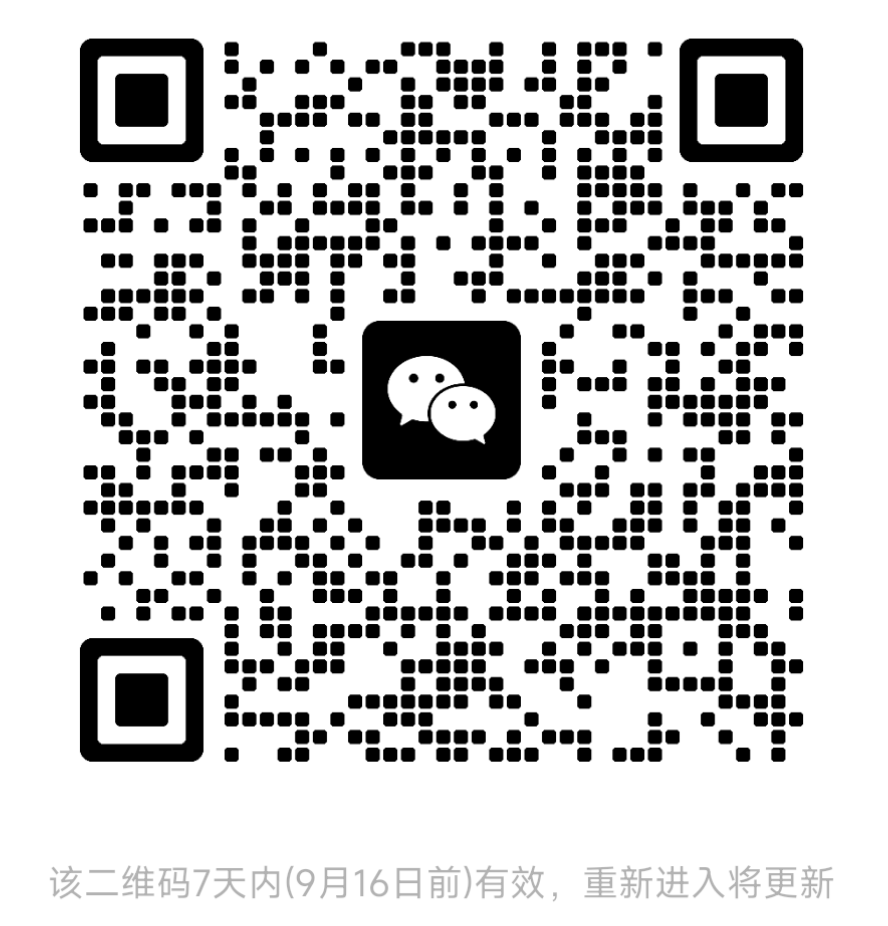
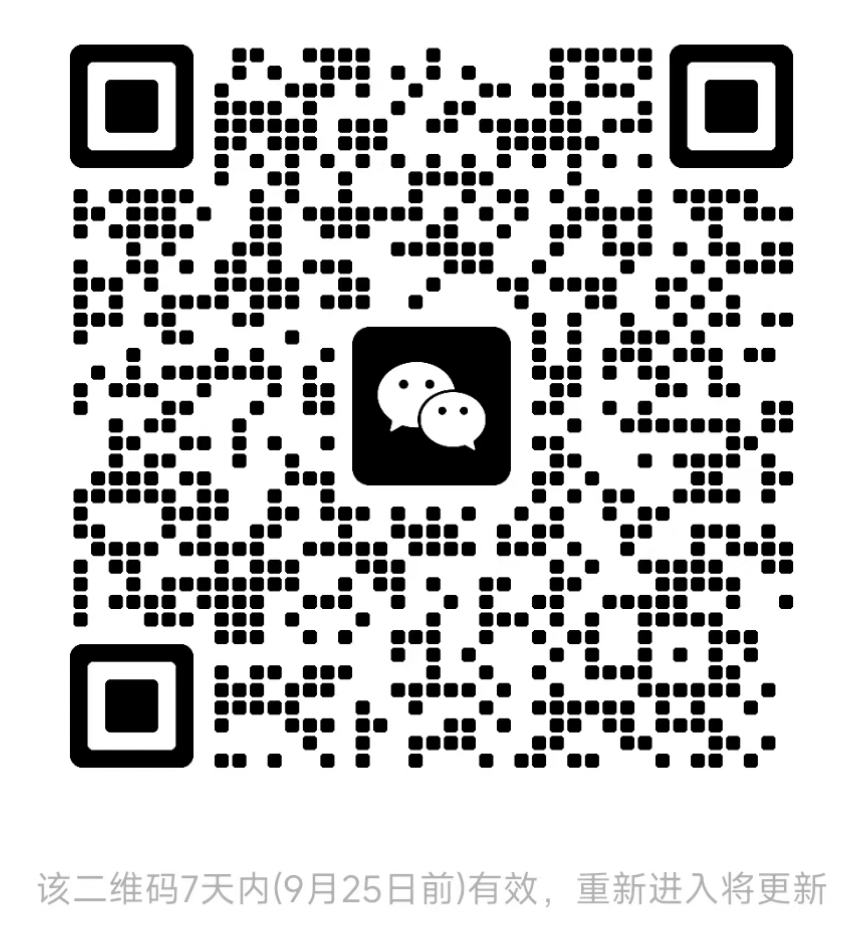
-

diff --git a/README.md b/README.md
@@ -7,32 +7,17 @@
 
 # Fine
 
+由于工具的维护与更新需要花费大量时间与精力，现采取订阅制度，<b>部分功能收费【ICP批量查询、爱企查导出、小程序敏感信息提取】，其余功能不受限</b>，后续新加的功能可能也会收费，具体费用进群了解
+
+<img src="README_images/qrcode.png" alt="alt text" height="200" />
+
+# 功能模块
+
+> macOS提示文件损坏请执行`sudo xattr -d com.apple.quarantine Fine.app`命令后重新打开
+
 ![1](README_images/setting.png)
 ![2](README_images/fofa.png)
 ![3](README_images/icp.png)
 ![4](README_images/aiqicha.png)
 ![5](README_images/portscan.png)
 ![6](README_images/miniapp.png)
-
-# 使用说明
-- macOS提示文件损坏请执行`sudo xattr -d com.apple.quarantine Fine.app`命令后重新打开
-- 超时均采用纳秒
-- 资产测绘API KEY自行在对应平台获取
-- 天眼查AUTH-TOKEN为登陆后Cookie中的`auth_token`字段内容
-- 爱企查Cookie需要Burp/Yakit等抓包获取
-- ICP批量查询务必使用代理池，因代理问题批量任务终止可点击`继续`进行查询不用重新执行开始
-- HTTPX不会使用全局代理，只会使用设置的代理
-- 端口扫描依托于域名解析的IP，如果识别不到请更换DNS，线程根据本机资源设置，QPS根据目标资源大致设置
-- 微信小程序Applet目录
-    -    windows v3: 设置->文件管理->微信文件的默认保存位置，打开文件管理器访问前一步的路径，选择该目录下的Applet文件夹
-    -    windows v4: C:\Users\xxxxxx\AppData\Roaming\Tencent\xwechat\radium\Applet\packages
-    -    macOS v3:  /Users/xxxxxx/Library/Containers/com.tencent.xinWeChat/Data/.wxapplet/packages
-    -    macOS v4:  /Users/xxxxxx/Library/Containers/com.tencent.xinWeChat/Data/Documents/app_data/radium/Applet/packages
-
-## TODO
-
-？？？
-
-# 交流群
-
-<img src="README_images/qrcode.png" alt="alt text" height="200" />
